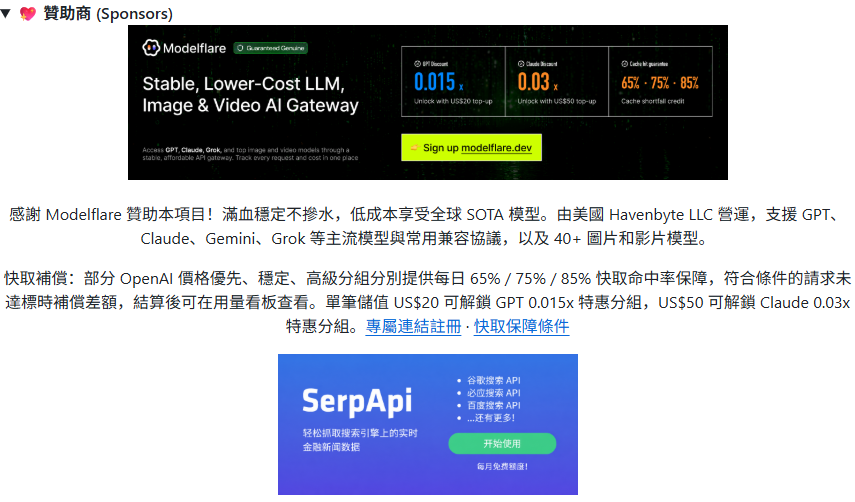
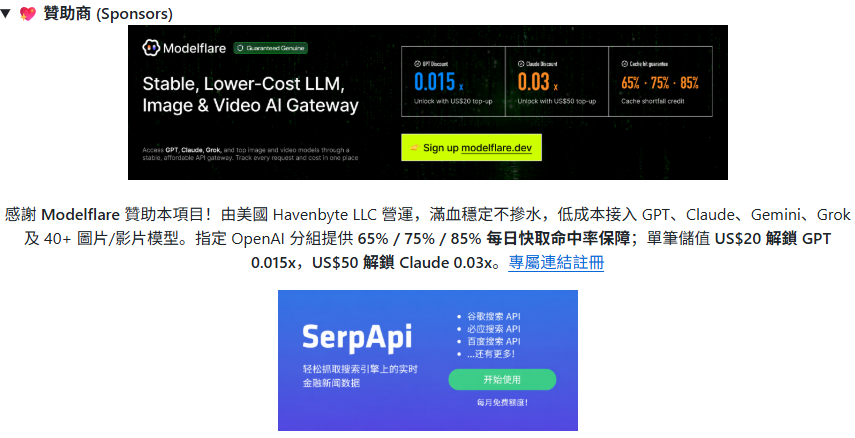
docs: capture primary-model compatibility and concise sponsor copy

diff --git a/pr-evidence/modelflare-compact/README.md b/pr-evidence/modelflare-compact/README.md
@@ -1,12 +1,13 @@
 # Modelflare visual evidence
 
-Captured on 2026-10-13 for product commit `850d46e32976fff9d26b8ce2ce5501b73272da5d`.
+README, main Web states and global-model inheritance captured on 2026-10-13 for product commit `535f21b64ceed5d9f813c7db6574449600dbe485`. Validation/registration-detail screenshots were captured for `850d46e3`; those UI behaviors are unchanged.
 
 - README screenshots: actual GitHub rendering of that commit in Simplified Chinese, Traditional Chinese and English. Default expanded state, collapse/reopen verified. Desktop viewport: 1274 × 900; mobile viewport: 390 × 844.
 - Before screenshot: original product commit `7c7608cde85cbf5f2d943978ab433e7b769cc46b`, same desktop viewport, old sponsor details expanded. Captures are cropped to the affected sponsor section.
 - Web screenshots: real application build containing current product changes, using the same deterministic API boundary as `apps/dsa-web/e2e/fixtures/settings-guard.spec.ts`. They demonstrate actual UI rendering and conditional registration visibility, not backend connectivity. No credentials were supplied to the page.
 - `web-config-validation-*` and `web-channel-registration.png`: current build connected to the real locally running backend; only the configuration-list GET is replaced with an empty editor to keep credentials out of screenshots. Preview/status use the actual backend. Adding a channel with no Key returns HTTP 400 `validation_failed`; the page displays `LLM_MODELFLARE_API_KEY` and the corrective instruction instead of the generic English failure. No configuration is saved. The channel details registration link uses the supplied app UTM.
 - `web-config-validation-recovered.png`: filling the Key field with a fictional test value makes the real read-only preview return HTTP 200 and clears the validation alert. This checks configuration readiness only; no external model call or credential authentication is performed. Clearing the field restores the HTTP 400 field guidance. Real credential authentication is covered separately by the prior live channel check.
+- `web-existing-primary-model.png`: current local Web build receives an isolated configuration list containing only `LLM_CHANNELS=modelflare` and `LITELLM_MODEL=openai/gpt-5.6-sol`, with no channel model list or credentials. The editor displays the inherited model; no automatic save occurs. Live backend verification separately omitted both Base URL and request models and successfully completed the real model call.
 - Backend connectivity was checked separately through real DSA `/config/llm/discover-models` and `/config/llm/test-channel` requests. API Key was provided only in process memory and is not part of these artifacts.
 - Reproduce README: open the product commit's README on GitHub, confirm the sponsor section starts open, click its summary to collapse and reopen.
 - Reproduce Web: build Web, open Settings → AI models, select Modelflare and Anspire under Quick add; registration is visible only for Modelflare. Inspect desktop and 390px mobile views.
